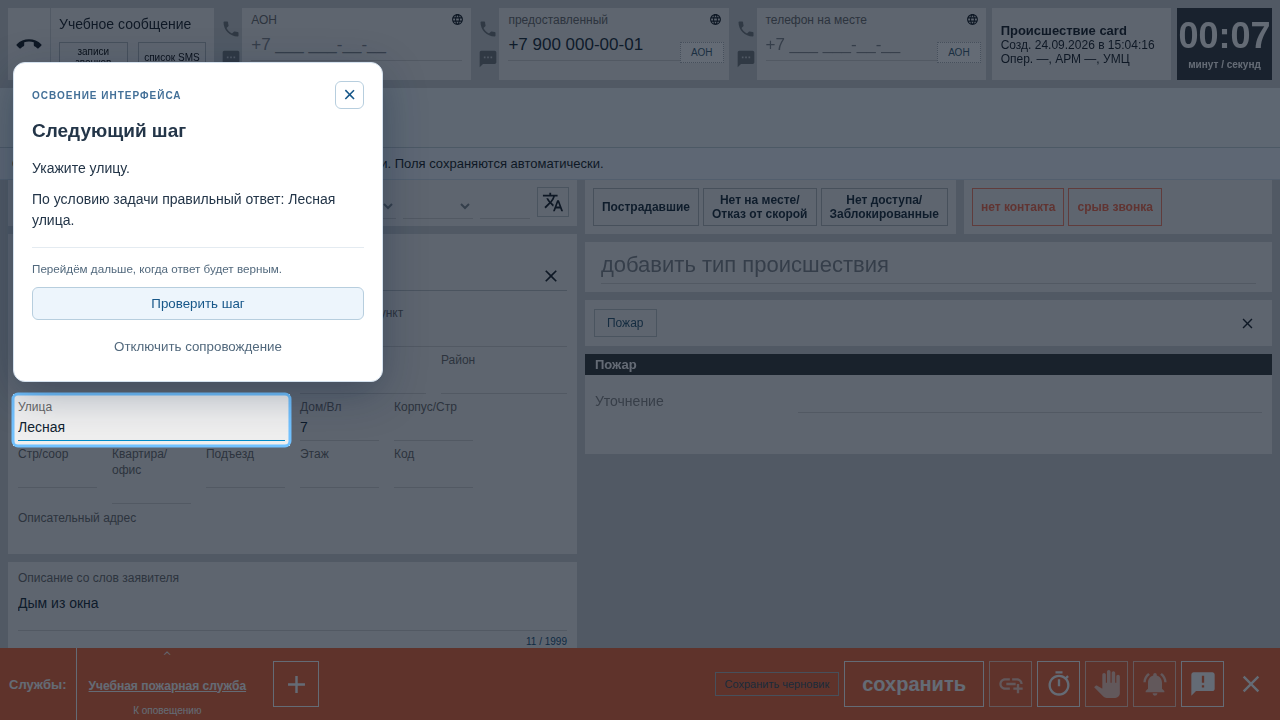
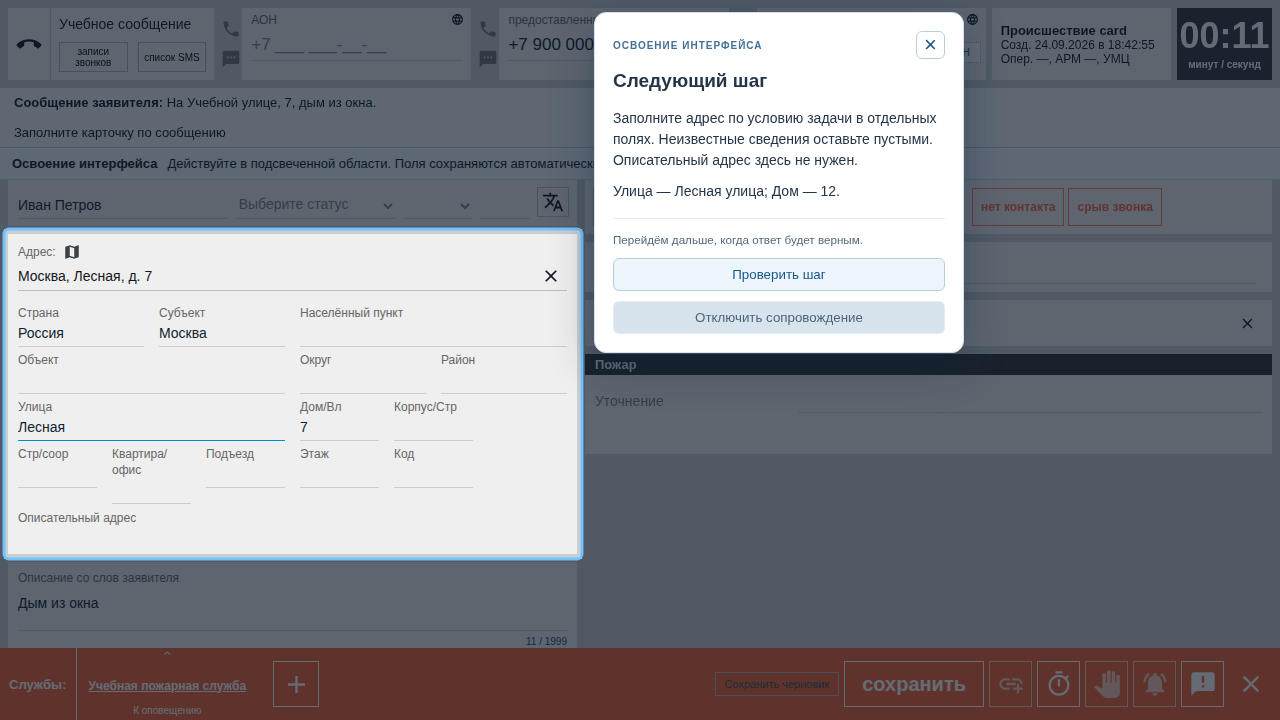
fix: keep grouped address guidance clear of input fields

diff --git a/112-frontend/e2e/interface-guide.spec.ts b/112-frontend/e2e/interface-guide.spec.ts
@@ -64,8 +64,9 @@ test("guide introduces the task, waits for correct and confirmed answers, includ
         ? "guide.source"
         : a.card.classifier_entry_id !== "entry-new"
           ? "classifier_entry_id"
-          : a.card.data.address_details.street !== "Лесная улица"
-            ? "address_details.street"
+          : a.card.data.address_details.street !== "Лесная улица" ||
+              a.card.data.address_details.house !== "12"
+            ? "guide.address"
             : !confirmed.has("description")
               ? "description"
               : !confirmed.has("guide.services")
@@ -76,8 +77,8 @@ test("guide introduces the task, waits for correct and confirmed answers, includ
           "Здесь условия задачи. Прочитайте их и нажмите «Продолжить».",
         classifier_entry_id:
           "Выберите тип происшествия. Для поиска введите хотя бы два символа.\n\nПо условию задачи правильный ответ: Пожар.",
-        "address_details.street":
-          "Укажите улицу.\n\nПо условию задачи правильный ответ: Лесная улица.",
+        "guide.address":
+          "Заполните адрес по условию задачи в отдельных полях. Неизвестные сведения оставьте пустыми. Описательный адрес здесь не нужен.\n\nУлица — Лесная улица; Дом — 12.",
         description:
           "Кратко опишите, что случилось. Можно своими словами. Допишите ответ и нажмите «Продолжить».",
         "guide.services":
@@ -89,7 +90,7 @@ test("guide introduces the task, waits for correct and confirmed answers, includ
           ? "source"
           : task === "classifier_entry_id"
             ? "classification"
-            : task === "address_details.street"
+            : task === "guide.address"
               ? "address"
               : task === "guide.services"
                 ? "notification"
@@ -148,6 +149,40 @@ test("guide introduces the task, waits for correct and confirmed answers, includ
   });
   await result.getByRole("button", { name: "Пожар", exact: true }).click();
   await expect(panel).toContainText("Лесная улица");
+  await expect
+    .poll(async () => {
+      const hole = await page
+        .locator(".interface-guide-veil rect")
+        .boundingBox();
+      const address = await page
+        .locator('[data-learning-target="address"]')
+        .boundingBox();
+      return (
+        !!hole &&
+        !!address &&
+        hole.x <= address.x &&
+        hole.y <= address.y &&
+        hole.x + hole.width >= address.x + address.width &&
+        hole.y + hole.height >= address.y + address.height
+      );
+    })
+    .toBe(true);
+  await expect
+    .poll(async () => {
+      const tooltip = await panel.boundingBox();
+      const address = await page
+        .locator('[data-learning-target="address"]')
+        .boundingBox();
+      return (
+        !!tooltip &&
+        !!address &&
+        (tooltip.x >= address.x + address.width ||
+          tooltip.x + tooltip.width <= address.x ||
+          tooltip.y >= address.y + address.height ||
+          tooltip.y + tooltip.height <= address.y)
+      );
+    })
+    .toBe(true);
   await page.getByLabel("Улица", { exact: true }).fill("Лесная");
   await expect
     .poll(() => fixture.currentAttempt().card.data.address_details.street)
@@ -168,6 +203,16 @@ test("guide introduces the task, waits for correct and confirmed answers, includ
     path: "docs/screenshots/interface-guide/operator-mobile.png",
   });
   await page.getByLabel("Улица", { exact: true }).fill("Лесная улица");
+  await expect
+    .poll(() => fixture.currentAttempt().card.data.address_details.street)
+    .toBe("Лесная улица");
+  await expect(panel).toContainText("Дом — 12");
+  await page.getByLabel("Дом/Вл", { exact: true }).fill("1");
+  await expect
+    .poll(() => fixture.currentAttempt().card.data.address_details.house)
+    .toBe("1");
+  await expect(panel).toContainText("Дом — 12");
+  await page.getByLabel("Дом/Вл", { exact: true }).fill("12");
   await expect(panel).toContainText("Кратко опишите");
   await page
     .getByRole("textbox", { name: "Сообщение со слов заявителя" })

diff --git a/112-frontend/src/features/learning-assistance/model/useGuidePanel.ts b/112-frontend/src/features/learning-assistance/model/useGuidePanel.ts
@@ -38,7 +38,7 @@ export function useGuidePanel({
   const top =
     g && below + height > h - 12 ? Math.max(12, g.top - height - 12) : below;
   const side =
-    g && g.height + height + 24 > h
+    g && below + height > h - 12 && g.top - height - 12 < 12
       ? g.left + g.width + width + 24 < w
         ? g.left + g.width + 12
         : g.left > width + 24

diff --git a/112-frontend/docs/screenshots/interface-guide/README.md b/112-frontend/docs/screenshots/interface-guide/README.md
@@ -6,7 +6,7 @@
 интеграционными тестами на PostgreSQL.
 
 - `teacher-settings.png` — выбор формата при назначении занятия.
-- `operator-112.png` — конкретное поле в АРМ и объяснение рядом.
+- `operator-112.png` — весь блок конкретного адреса и значения отдельных полей из условия.
 - `operator-mobile.png` — тот же шаг на узком экране.
 - `dds-service.png` — открытие своей службы.
 - `dds-editor.png` — подтверждение назначения в обычном редакторе бригады.
@@ -27,3 +27,7 @@
 Точные поля ждут совпадения с условием; свободный адрес и описание требуют
 «Продолжить» после ввода. Подтверждения хранит backend. Кнопка отключения
 сопровождения размещена внутри поясняющей карточки.
+
+Конкретный адрес без ориентиров — единый шаг: все заданные части адреса должны
+совпасть с условием, описание вместо улицы и дома не завершает шаг.
+`operator-mobile.png` показывает этот же блок на узком экране.
